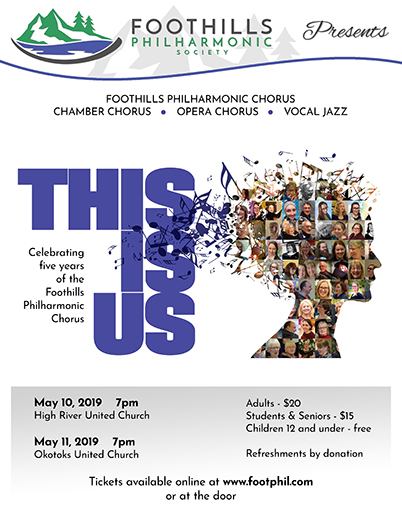
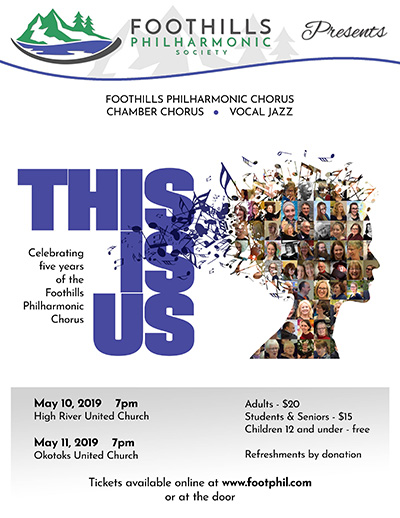
Update This is Us poster/info
Remove Opera Chorus

diff --git a/concerts/index.html b/concerts/index.html
@@ -3,97 +3,143 @@ layout: default
 title: Upcoming Concerts
 ---
 
-        <h1>Upcoming Concerts</h1>
+<h1>Upcoming Concerts</h1>
 
-        <div class="row">
-          <div class="col-lg-4 col-md-6 col-12">
-            <p class="content-image">
-              <a href="https://www.brownpapertickets.com/event/4052381" target="_blank">
-                <img src="/images/concerts/2019-spring/seasons-of-love-small.jpg">
-              </a>
-            </p>
-          </div>
+<div class="row">
+  <div class="col-lg-4 col-md-6 col-12">
+    <p class="content-image">
+      <a href="https://www.brownpapertickets.com/event/4052381" target="_blank">
+        <img src="/images/concerts/2019-spring/seasons-of-love-small.jpg" />
+      </a>
+    </p>
+  </div>
 
-          <div class="col-lg-8 col-md-6 col-12">
-            <h3 class="tight"><a href="https://www.brownpapertickets.com/event/4052381" target="_blank">Seasons of Love</a></h3>
-            <p>
-              <em>Foothills Philharmonic Men’s Chorus</em>
-            </p>
+  <div class="col-lg-8 col-md-6 col-12">
+    <h3 class="tight">
+      <a href="https://www.brownpapertickets.com/event/4052381" target="_blank"
+        >Seasons of Love</a
+      >
+    </h3>
+    <p>
+      <em>Foothills Philharmonic Men’s Chorus</em>
+    </p>
 
-            <p>Come join us to celebrate love!</p>
+    <p>Come join us to celebrate love!</p>
 
-            <p>Come celebrate beautiful music around the topic of “Love” this Spring. On May 3<sup>rd</sup>, the Foothills Philharmonic Men’s Chorus will be joined the fabulous local ladies group <em>MzBehavin</em> and Foothills Philharmonic Orchestra’s principal cellist Karen Dees for a celebration of the many different facets of love.</p>
+    <p>
+      Come celebrate beautiful music around the topic of “Love” this Spring. On
+      May 3<sup>rd</sup>, the Foothills Philharmonic Men’s Chorus will be joined
+      the fabulous local ladies group <em>MzBehavin</em> and Foothills
+      Philharmonic Orchestra’s principal cellist Karen Dees for a celebration of
+      the many different facets of love.
+    </p>
 
-            <h5>Tickets:</h5>
-            <ul>
-              <li>Adults: $20</li>
-              <li>Students and Seniors: $15</li>
-              <li>Children 12 and under: Free</li>
-              <li>Pre-purchase online, or at the door</li>
-            </ul>
+    <h5>Tickets:</h5>
+    <ul>
+      <li>Adults: $20</li>
+      <li>Students and Seniors: $15</li>
+      <li>Children 12 and under: Free</li>
+      <li>Pre-purchase online, or at the door</li>
+    </ul>
 
-            <p>
-              <strong>Friday, May 3<sup>rd</sup>, 7 pm</strong><br>
-              <a href="https://www.google.com/maps/place/St.+Peter's+Anglican+Church/@50.7236496,-113.9832801,15z/data=!4m2!3m1!1s0x0:0x5fae5f86cd6e807a" target="_blank">St. Peter’s Anglican Church</a>
-            </p>
+    <p>
+      <strong>Friday, May 3<sup>rd</sup>, 7 pm</strong><br />
+      <a
+        href="https://www.google.com/maps/place/St.+Peter's+Anglican+Church/@50.7236496,-113.9832801,15z/data=!4m2!3m1!1s0x0:0x5fae5f86cd6e807a"
+        target="_blank"
+        >St. Peter’s Anglican Church</a
+      >
+    </p>
 
-            <p>
-              <a class="link-button" href="https://www.brownpapertickets.com/event/4052381" target="_blank">Buy Tickets!</a>
-            </p>
-          </div>
-        </div>
+    <p>
+      <a
+        class="link-button"
+        href="https://www.brownpapertickets.com/event/4052381"
+        target="_blank"
+        >Buy Tickets!</a
+      >
+    </p>
+  </div>
+</div>
 
-        <div class="row">
-          <div class="col-lg-4 col-md-6 col-12">
-            <p class="content-image">
-              <a href="https://www.brownpapertickets.com/producer/1352936" target="_blank">
-                <img src="/images/concerts/2019-spring/this-is-us-small.jpg">
-              </a>
-            </p>
-          </div>
+<div class="row">
+  <div class="col-lg-4 col-md-6 col-12">
+    <p class="content-image">
+      <a
+        href="https://www.brownpapertickets.com/producer/1352936"
+        target="_blank"
+      >
+        <img src="/images/concerts/2019-spring/this-is-us-small.jpg" />
+      </a>
+    </p>
+  </div>
 
-          <div class="col-lg-8 col-md-6 col-12">
-            <h3 class="tight"><a href="https://www.brownpapertickets.com/producer/1352936" target="_blank">This Is Us</a></h3>
-            <p>
-              <em>
-                Foothills Philharmonic Chorus
-                <br>
-                with Chamber Chorus, Opera Chorus, and Vocal Jazz
-              </em>
-            </p>
+  <div class="col-lg-8 col-md-6 col-12">
+    <h3 class="tight">
+      <a
+        href="https://www.brownpapertickets.com/producer/1352936"
+        target="_blank"
+        >This Is Us</a
+      >
+    </h3>
+    <p>
+      <em>
+        Foothills Philharmonic Chorus
+        <br />
+        with Chamber Chorus, and Vocal Jazz
+      </em>
+    </p>
 
-            <p>Celebrating five years of the Foothills Philharmonic Chorus!</p>
+    <p>Celebrating five years of the Foothills Philharmonic Chorus!</p>
 
-            <h5>Tickets:</h5>
-            <ul>
-              <li>Adults: $20</li>
-              <li>Students and Seniors: $15</li>
-              <li>Children 12 and under: Free</li>
-              <li>Pre-purchase online, or at the door</li>
-            </ul>
+    <h5>Tickets:</h5>
+    <ul>
+      <li>Adults: $20</li>
+      <li>Students and Seniors: $15</li>
+      <li>Children 12 and under: Free</li>
+      <li>Pre-purchase online, or at the door</li>
+    </ul>
 
-            <div class="row">
-              <div class="col-lg-6 col-12">
-                <p>
-                  <strong>Friday, May 10<sup>th</sup>, 7 pm</strong><br>
-                  <a href="https://www.google.ca/maps/place/High+River+United+Church/@50.5812579,-113.8754792,17z/data=!3m1!4b1!4m5!3m4!1s0x53719514556bc617:0x6c2ee3cdac15208!8m2!3d50.5812579!4d-113.8732905" target="_blank">High River United Church</a>
-                </p>
+    <div class="row">
+      <div class="col-lg-6 col-12">
+        <p>
+          <strong>Friday, May 10<sup>th</sup>, 7 pm</strong><br />
+          <a
+            href="https://www.google.ca/maps/place/High+River+United+Church/@50.5812579,-113.8754792,17z/data=!3m1!4b1!4m5!3m4!1s0x53719514556bc617:0x6c2ee3cdac15208!8m2!3d50.5812579!4d-113.8732905"
+            target="_blank"
+            >High River United Church</a
+          >
+        </p>
 
-                <p>
-                  <a class="link-button" href="https://www.brownpapertickets.com/event/4210391" target="_blank">Buy Tickets!</a>
-                </p>
-              </div>
+        <p>
+          <a
+            class="link-button"
+            href="https://www.brownpapertickets.com/event/4210391"
+            target="_blank"
+            >Buy Tickets!</a
+          >
+        </p>
+      </div>
 
-              <div class="col-lg-6 col-12">
-                <p>
-                  <strong>Saturday, May 11<sup>th</sup>, 7 pm</strong><br>
-                  <a href="https://www.google.ca/maps/place/Okotoks+United+Church/@50.724914,-113.979771,15z/data=!4m2!3m1!1s0x0:0x9f916ee0400c6c6f" target="_blank">Okotoks United Church</a><br/>
-                </p>
+      <div class="col-lg-6 col-12">
+        <p>
+          <strong>Saturday, May 11<sup>th</sup>, 7 pm</strong><br />
+          <a
+            href="https://www.google.ca/maps/place/Okotoks+United+Church/@50.724914,-113.979771,15z/data=!4m2!3m1!1s0x0:0x9f916ee0400c6c6f"
+            target="_blank"
+            >Okotoks United Church</a
+          ><br />
+        </p>
 
-                <p>
-                  <a class="link-button" href="https://www.brownpapertickets.com/event/4210401" target="_blank">Buy Tickets!</a>
-                </p>
-              </div>
-            </div>
-          </div>
-        </div>
+        <p>
+          <a
+            class="link-button"
+            href="https://www.brownpapertickets.com/event/4210401"
+            target="_blank"
+            >Buy Tickets!</a
+          >
+        </p>
+      </div>
+    </div>
+  </div>
+</div>
